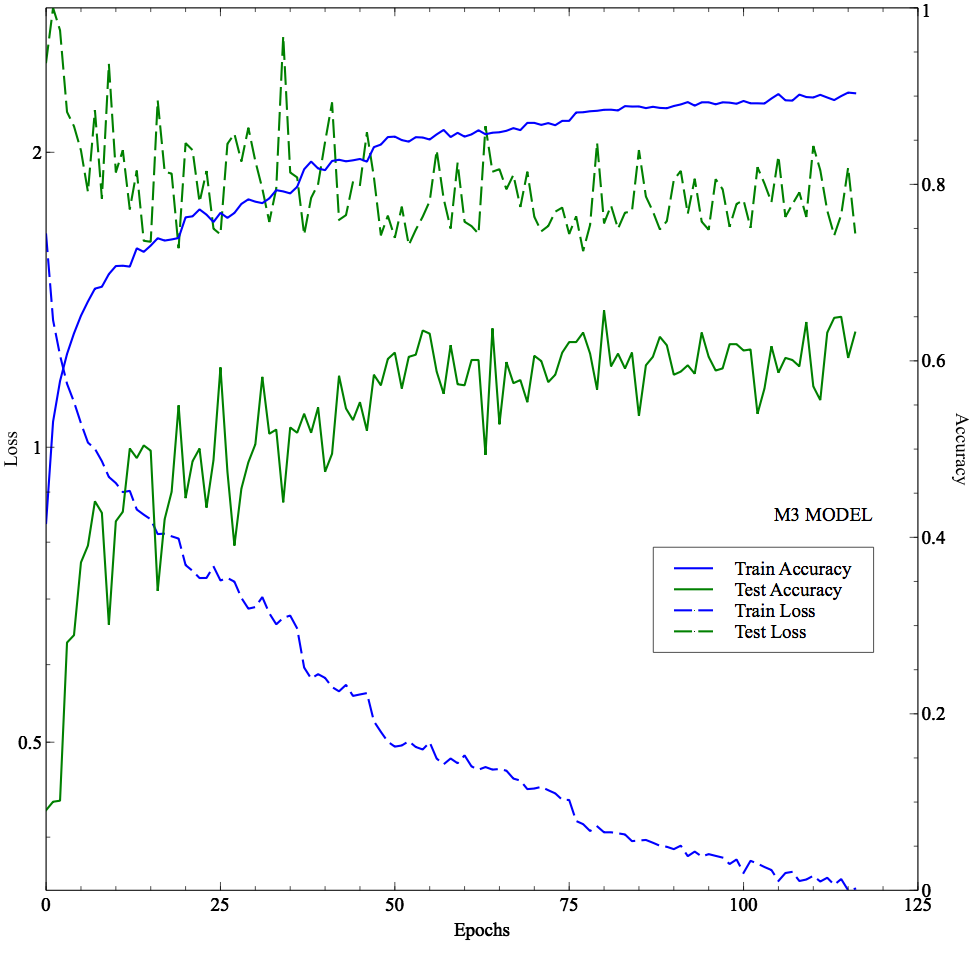
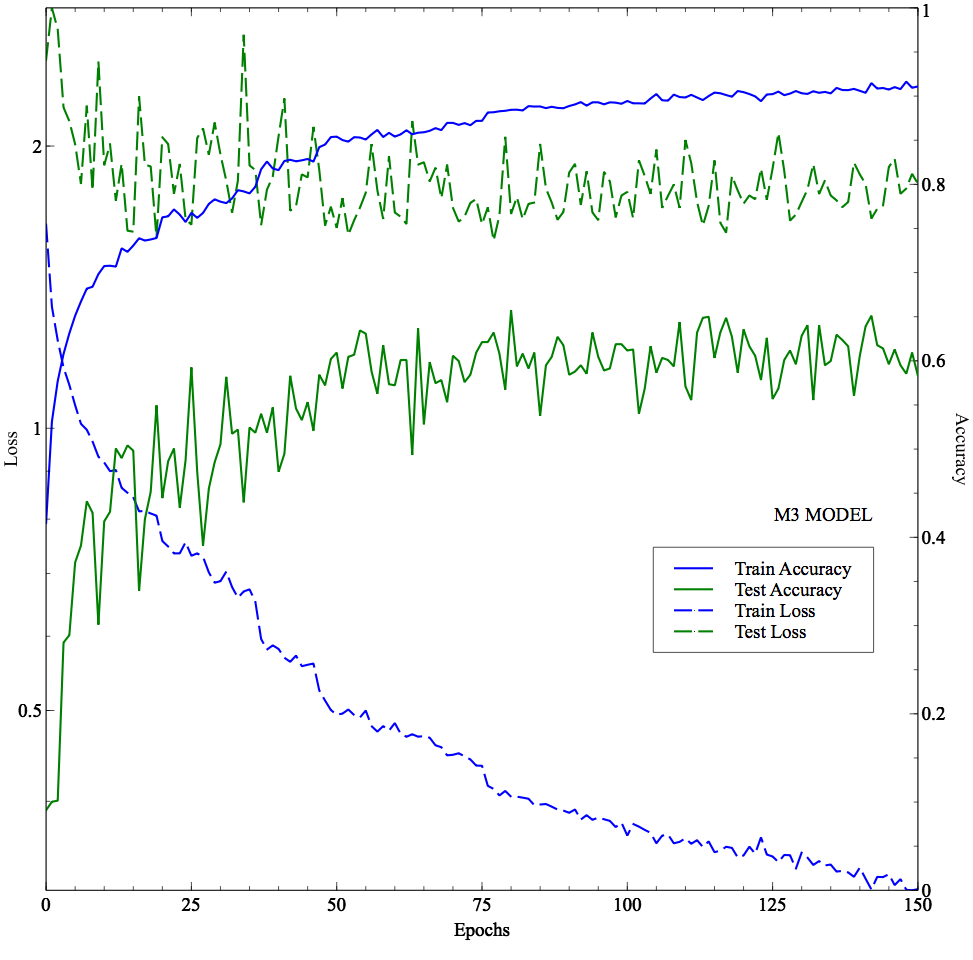
m5

diff --git a/models.py b/models.py
@@ -30,3 +30,50 @@ def m3(num_classes=10):
     m.add(Lambda(lambda x: K.mean(x, axis=1)))
     m.add(Dense(num_classes, activation='softmax'))
     return m
+
+
+def m5(num_classes=10):
+    m = Sequential()
+    m.add(Conv1D(128,
+                 input_shape=[AUDIO_LENGTH, 1],
+                 kernel_size=80,
+                 strides=4,
+                 padding='same',
+                 kernel_initializer='glorot_uniform',
+                 kernel_regularizer=regularizers.l2(l=0.0001)))
+    m.add(BatchNormalization())
+    m.add(Activation('relu'))
+    m.add(MaxPooling1D(pool_size=4, strides=None))
+    m.add(Conv1D(128,
+                 input_shape=[AUDIO_LENGTH, 1],
+                 kernel_size=3,
+                 strides=1,
+                 padding='same',
+                 kernel_initializer='glorot_uniform',
+                 kernel_regularizer=regularizers.l2(l=0.0001)))
+    m.add(BatchNormalization())
+    m.add(Activation('relu'))
+    m.add(MaxPooling1D(pool_size=4, strides=None))
+    m.add(Conv1D(256,
+                 input_shape=[AUDIO_LENGTH, 1],
+                 kernel_size=3,
+                 strides=1,
+                 padding='same',
+                 kernel_initializer='glorot_uniform',
+                 kernel_regularizer=regularizers.l2(l=0.0001)))
+    m.add(BatchNormalization())
+    m.add(Activation('relu'))
+    m.add(MaxPooling1D(pool_size=4, strides=None))
+    m.add(Conv1D(512,
+                 input_shape=[AUDIO_LENGTH, 1],
+                 kernel_size=3,
+                 strides=1,
+                 padding='same',
+                 kernel_initializer='glorot_uniform',
+                 kernel_regularizer=regularizers.l2(l=0.0001)))
+    m.add(BatchNormalization())
+    m.add(Activation('relu'))
+    m.add(MaxPooling1D(pool_size=4, strides=None))
+    m.add(Lambda(lambda x: K.mean(x, axis=1)))
+    m.add(Dense(num_classes, activation='softmax'))
+    return m

diff --git a/model_run_all.py b/model_run_all.py
@@ -1,5 +1,3 @@
-from collections import deque
-
 from keras.callbacks import Callback
 from keras.callbacks import ReduceLROnPlateau
 from keras.utils.np_utils import to_categorical
@@ -8,13 +6,10 @@ from file_logger import FileLogger
 from model_data import DataReader
 from models import *
 
-def deq():
-    return deque(maxlen=100)
-
-
 if __name__ == '__main__':
     file_logger = FileLogger('out.tsv', ['step', 'tr_loss', 'te_loss',
                                          'tr_acc', 'te_acc'])
+
 
     class MetricsHistory(Callback):
         def on_epoch_end(self, epoch, logs={}):
@@ -26,7 +21,7 @@ if __name__ == '__main__':
 
 
     num_classes = 10
-    model = m3(num_classes=num_classes)
+    model = m5(num_classes=num_classes)
     model.compile(optimizer='adam',
                   loss='categorical_crossentropy',
                   metrics=['accuracy'])
